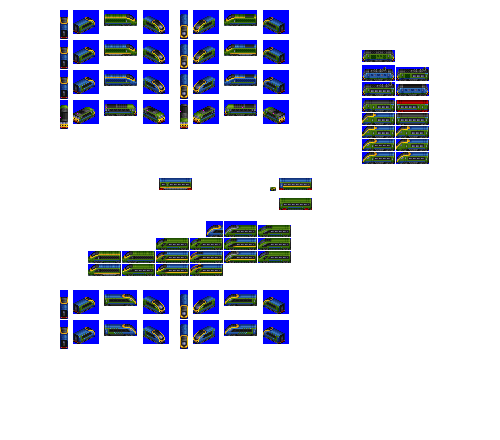
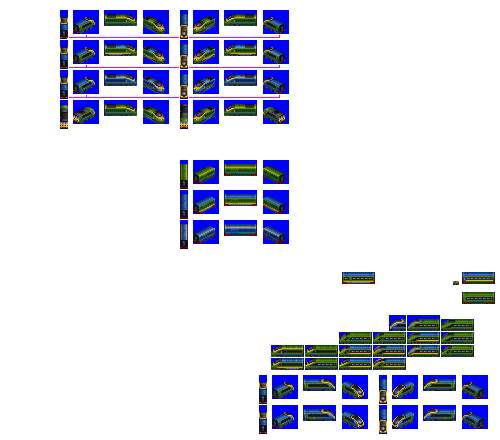
Change: WIP on Skeiron

diff --git a/src/vehicles/skeiron_cab.py b/src/vehicles/skeiron_cab.py
@@ -11,7 +11,7 @@ def main(roster_id):
         name="Skeiron",
         role="very_high_speed",
         role_child_branch_num=2,
-        pantograph_type="z-shaped-single-with-base",
+        pantograph_type="z-shaped-single",
         power_by_power_source={
             "AC": 3200,  # more than Brenner, but Brenner has pax capacity
         },
@@ -27,7 +27,7 @@ def main(roster_id):
         weight=54,
         spriterow_num=0,
         chassis="4_axle_solid_express_32px",
-        tail_light="very_high_speed_32px_2",
+        tail_light="very_high_speed_32px_3",
     )
 
     consist.description = """."""
